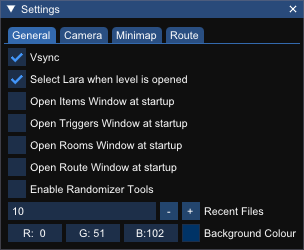
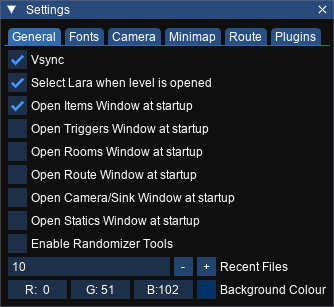
Settings docs

Changed region(s): [[0.0, 0.0, 1.0, 0.98], [0.0, 0.476, 0.0296, 0.504]]

diff --git a/doc/settings.md b/doc/settings.md
@@ -5,8 +5,21 @@ The settings window allows you to change how parts of trview behave.
 ## General
 ![Settings - General](settings_general.png)
 
+## Fonts
+![Settings - Fonts](settings_fonts.png)
+
+Available fonts are TTF fonts that have been installed on the system.
+
 ## Camera
 ![Settings - Camera](settings_camera.png)
 
 ## Minimap
 ![Settings - Minimap](settings_minimap.png)
+
+## Route
+![Settings - Route](settings_route.png)
+
+## Plugins
+![Settings - Plugins](settings_plugins.png)
+
+Plugin directories are scanned on program start to find plugins to load. More folders can be added with the `Add` button. Plugins themselves can be seen in the [plugins window](pluginswindow.md).
